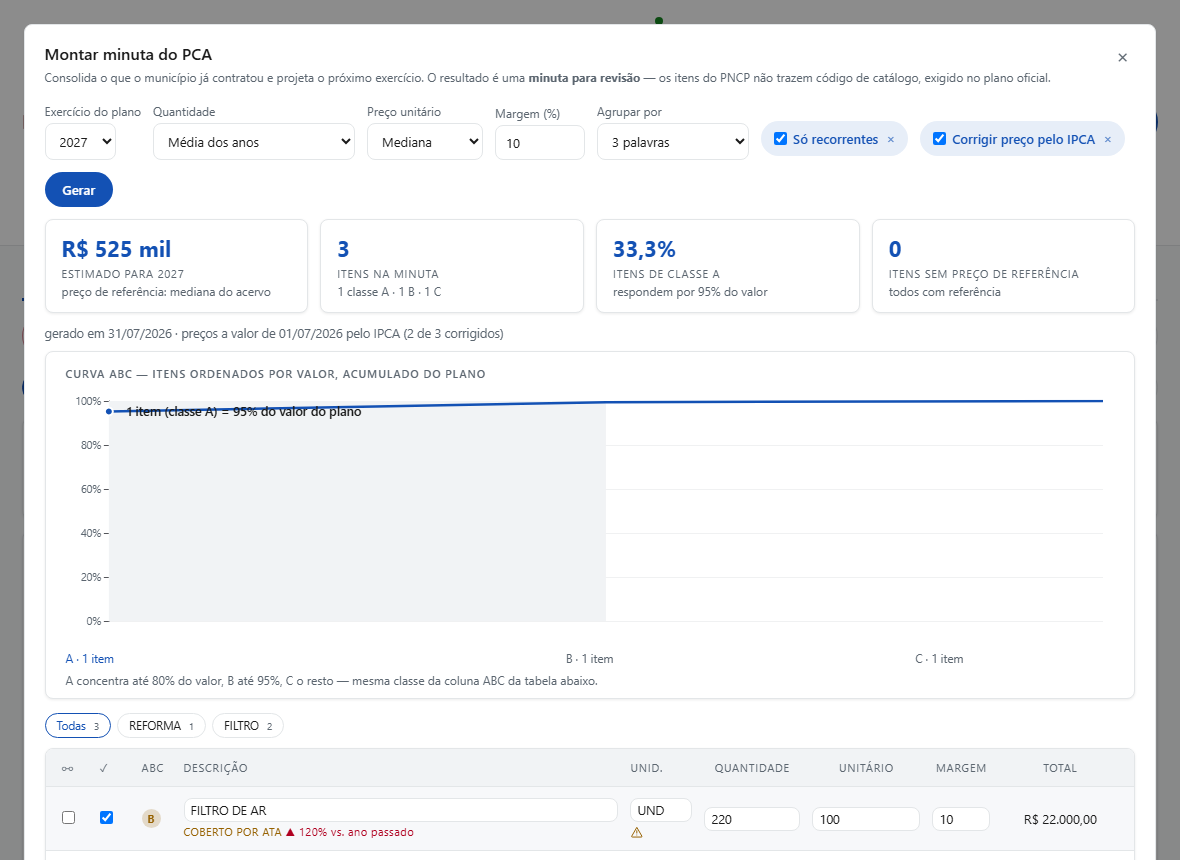
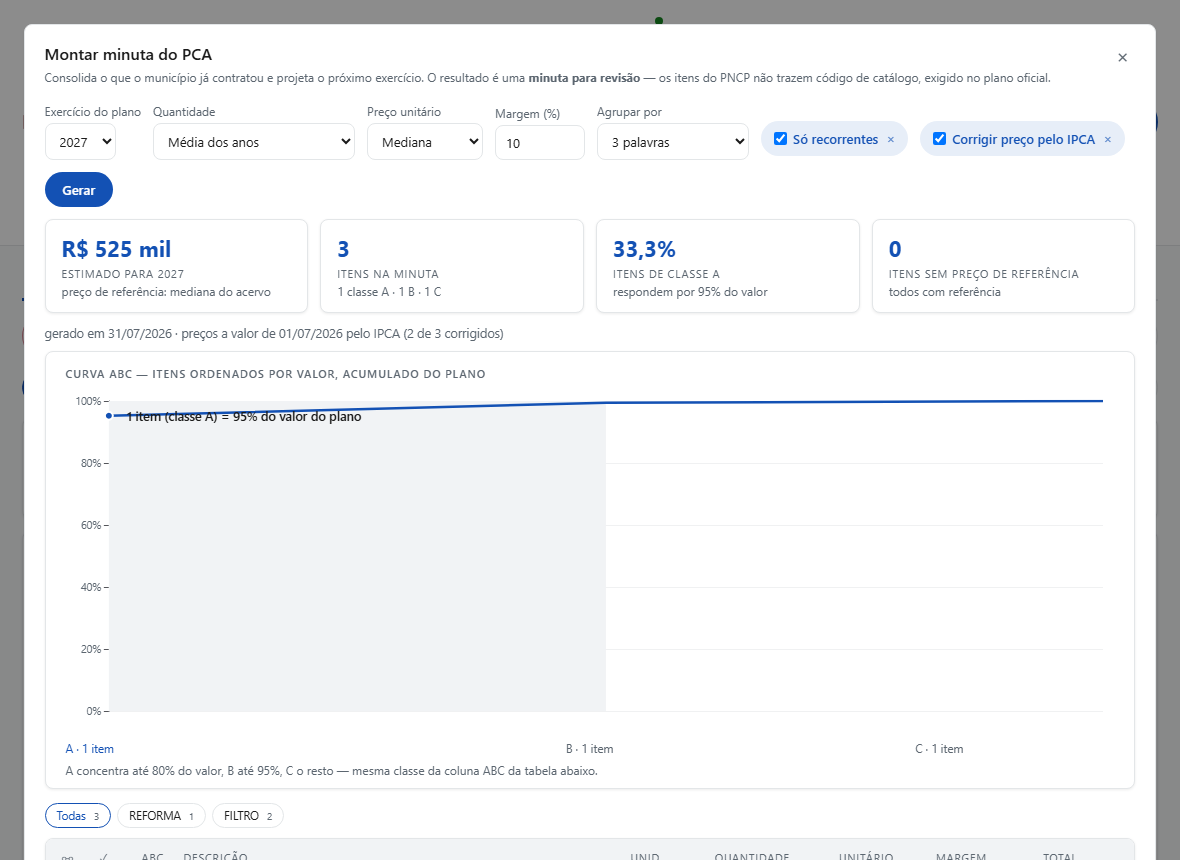
Altura mínima dos gráficos do Painel sobe pra 350px (v2.13.1)
Pedido do usuário: todo gráfico (largura total ou de altura variável —
barras, deságio, calor, funil) tem 350px de altura mínima agora, contra
os 260px/pisos menores de antes.

diff --git a/MANUAL.html b/MANUAL.html
@@ -2,11 +2,11 @@
 <html lang="pt-BR">
 <head>
 <meta charset="utf-8">
-<title>Manual Operacional — Licitarium Free v2.13.0</title>
+<title>Manual Operacional — Licitarium Free v2.13.1</title>
 <style>
   @page {
     size: A4; margin: 2cm 1.8cm;
-    @top-center { content: "Licitarium Free v2.13.0 — Manual Operacional"; font-size: 9pt; color: #6f5b3e; }
+    @top-center { content: "Licitarium Free v2.13.1 — Manual Operacional"; font-size: 9pt; color: #6f5b3e; }
     @bottom-right { content: "Página " counter(page) " de " counter(pages);
                     font-size: 9pt; color: #6f5b3e; }
   }
@@ -155,7 +155,7 @@
     <path d="M21.22 61.67Q21.16 61.67 21.12 61.65Q21.09 61.64 21.09 61.61Q21.09 61.58 21.13 61.56Q21.17 61.54 21.23 61.53Q21.35 61.5 21.42 61.41Q21.5 61.32 21.52 61.17Q21.57 60.82 21.61 60.47Q21.64 60.11 21.67 59.79Q21.7 59.47 21.71 59.22Q21.71 59.19 21.71 59.14Q21.71 59.1 21.71 59.06Q21.7 59.01 21.69 58.97Q21.67 58.93 21.62 58.89Q21.55 58.83 21.47 58.81Q21.4 58.78 21.3 58.76Q21.26 58.75 21.23 58.73Q21.2 58.7 21.2 58.67Q21.2 58.63 21.24 58.62Q21.28 58.61 21.34 58.61Q21.4 58.61 21.49 58.61Q21.59 58.62 21.71 58.63Q21.82 58.63 21.93 58.64Q22.03 58.64 22.1 58.64Q22.14 58.64 22.16 58.66Q22.19 58.69 22.2 58.72Q22.22 58.81 22.25 58.89Q22.27 58.98 22.31 59.07L23.02 60.84Q23.03 60.87 23.06 60.88Q23.09 60.88 23.11 60.85L23.93 59.08Q23.96 58.98 23.98 58.88Q24 58.78 24.02 58.71Q24.03 58.65 24.07 58.65H24.25Q24.41 58.64 24.59 58.63Q24.76 58.61 24.85 58.61Q24.89 58.61 24.92 58.62Q24.96 58.63 24.96 58.66Q24.96 58.7 24.93 58.71Q24.9 58.73 24.84 58.76Q24.79 58.77 24.73 58.8Q24.67 58.82 24.62 58.84Q24.55 58.88 24.51 58.93Q24.46 58.98 24.47 59.07Q24.47 59.4 24.48 59.67Q24.5 59.94 24.51 60.19Q24.52 60.43 24.54 60.68Q24.56 60.93 24.57 61.2Q24.58 61.34 24.67 61.41Q24.75 61.49 24.92 61.52Q24.98 61.54 25.02 61.56Q25.05 61.57 25.05 61.61Q25.05 61.64 25.02 61.65Q24.99 61.67 24.93 61.67Q24.82 61.67 24.72 61.66Q24.62 61.65 24.53 61.65Q24.43 61.64 24.33 61.64Q24.24 61.64 24.16 61.65Q24.08 61.65 23.99 61.66Q23.9 61.67 23.78 61.67Q23.73 61.67 23.7 61.65Q23.66 61.64 23.66 61.61Q23.66 61.58 23.7 61.55Q23.73 61.53 23.8 61.52Q23.95 61.5 24 61.43Q24.06 61.36 24.06 61.2Q24.05 60.88 24.04 60.61Q24.04 60.34 24.02 60.07Q24.01 59.8 24 59.51Q23.99 59.46 23.97 59.47Q23.95 59.47 23.93 59.51L22.93 61.66Q22.92 61.7 22.88 61.7Q22.84 61.69 22.83 61.66Q22.63 61.12 22.41 60.59Q22.19 60.07 21.95 59.5Q21.94 59.47 21.91 59.47Q21.89 59.47 21.88 59.51Q21.85 59.8 21.83 60.07Q21.8 60.34 21.79 60.61Q21.78 60.88 21.78 61.17Q21.78 61.3 21.86 61.39Q21.94 61.49 22.09 61.52Q22.16 61.54 22.2 61.55Q22.24 61.57 22.24 61.61Q22.24 61.64 22.2 61.65Q22.16 61.67 22.11 61.67Q21.99 61.67 21.92 61.66Q21.86 61.65 21.81 61.65Q21.75 61.65 21.66 61.65Q21.57 61.65 21.51 61.65Q21.44 61.66 21.37 61.66Q21.3 61.67 21.22 61.67ZM25.84 61.67Q25.78 61.67 25.75 61.65Q25.72 61.64 25.72 61.61Q25.72 61.58 25.75 61.56Q25.79 61.54 25.86 61.53Q25.97 61.5 26.05 61.41Q26.13 61.32 26.15 61.17Q26.19 60.82 26.23 60.47Q26.27 60.11 26.3 59.79Q26.32 59.47 26.33 59.22Q26.34 59.19 26.34 59.14Q26.34 59.1 26.33 59.06Q26.33 59.01 26.31 58.97Q26.3 58.93 26.25 58.89Q26.17 58.83 26.1 58.81Q26.03 58.78 25.93 58.76Q25.88 58.75 25.85 58.73Q25.82 58.7 25.82 58.67Q25.82 58.63 25.86 58.62Q25.91 58.61 25.97 58.61Q26.02 58.61 26.12 58.61Q26.22 58.62 26.33 58.63Q26.45 58.63 26.56 58.64Q26.66 58.64 26.73 58.64Q26.76 58.64 26.79 58.66Q26.82 58.69 26.82 58.72Q26.85 58.81 26.88 58.89Q26.9 58.98 26.93 59.07L27.65 60.84Q27.66 60.87 27.69 60.88Q27.72 60.88 27.73 60.85L28.56 59.08Q28.58 58.98 28.61 58.88Q28.63 58.78 28.64 58.71Q28.66 58.65 28.7 58.65H28.88Q29.04 58.64 29.21 58.63Q29.39 58.61 29.48 58.61Q29.51 58.61 29.55 58.62Q29.59 58.63 29.59 58.66Q29.59 58.7 29.56 58.71Q29.53 58.73 29.47 58.76Q29.42 58.77 29.36 58.8Q29.3 58.82 29.25 58.84Q29.17 58.88 29.13 58.93Q29.09 58.98 29.09 59.07Q29.1 59.4 29.11 59.67Q29.12 59.94 29.14 60.19Q29.15 60.43 29.17 60.68Q29.18 60.93 29.2 61.2Q29.21 61.34 29.3 61.41Q29.38 61.49 29.54 61.52Q29.61 61.54 29.65 61.56Q29.68 61.57 29.68 61.61Q29.68 61.64 29.65 61.65Q29.61 61.67 29.56 61.67Q29.44 61.67 29.34 61.66Q29.25 61.65 29.15 61.65Q29.06 61.64 28.96 61.64Q28.87 61.64 28.79 61.65Q28.71 61.65 28.62 61.66Q28.53 61.67 28.41 61.67Q28.36 61.67 28.32 61.65Q28.29 61.64 28.29 61.61Q28.29 61.58 28.32 61.55Q28.36 61.53 28.43 61.52Q28.57 61.5 28.63 61.43Q28.68 61.36 28.68 61.2Q28.68 60.88 28.67 60.61Q28.66 60.34 28.65 60.07Q28.64 59.8 28.63 59.51Q28.62 59.46 28.6 59.47Q28.58 59.47 28.56 59.51L27.56 61.66Q27.55 61.7 27.51 61.7Q27.47 61.69 27.46 61.66Q27.26 61.12 27.04 60.59Q26.82 60.07 26.58 59.5Q26.57 59.47 26.54 59.47Q26.52 59.47 26.51 59.51Q26.48 59.8 26.45 60.07Q26.43 60.34 26.42 60.61Q26.41 60.88 26.41 61.17Q26.41 61.3 26.49 61.39Q26.57 61.49 26.72 61.52Q26.79 61.54 26.83 61.55Q26.87 61.57 26.87 61.61Q26.87 61.64 26.83 61.65Q26.79 61.67 26.74 61.67Q26.61 61.67 26.55 61.66Q26.48 61.65 26.43 61.65Q26.38 61.65 26.29 61.65Q26.2 61.65 26.13 61.65Q26.07 61.66 26 61.66Q25.93 61.67 25.84 61.67ZM30.37 61.67Q30.31 61.67 30.27 61.66Q30.23 61.65 30.23 61.61Q30.23 61.58 30.27 61.56Q30.31 61.54 30.37 61.51Q30.46 61.49 30.57 61.44Q30.67 61.38 30.79 61.29Q30.9 61.2 31 61.07L31.58 60.35Q31.63 60.28 31.64 60.21Q31.66 60.14 31.59 60.05L30.96 59.16Q30.86 59.03 30.79 58.95Q30.71 58.87 30.63 58.83Q30.56 58.8 30.48 58.77Q30.41 58.75 30.37 58.73Q30.34 58.71 30.34 58.67Q30.34 58.64 30.37 58.63Q30.41 58.62 30.46 58.62Q30.61 58.62 30.81 58.63Q31.01 58.64 31.2 58.64Q31.34 58.64 31.47 58.63Q31.61 58.62 31.7 58.62Q31.75 58.62 31.79 58.64Q31.83 58.65 31.83 58.68Q31.83 58.72 31.79 58.74Q31.75 58.76 31.69 58.78Q31.56 58.81 31.5 58.84Q31.44 58.87 31.44 58.93Q31.44 59 31.56 59.18L31.99 59.77Q32.04 59.84 32.07 59.84Q32.1 59.84 32.14 59.78L32.59 59.18Q32.65 59.1 32.68 59.04Q32.71 58.98 32.71 58.93Q32.71 58.88 32.66 58.84Q32.61 58.8 32.5 58.78Q32.46 58.77 32.4 58.74Q32.35 58.72 32.35 58.68Q32.35 58.65 32.39 58.64Q32.43 58.63 32.49 58.63Q32.56 58.63 32.62 58.63Q32.68 58.63 32.74 58.63Q32.81 58.64 32.88 58.64Q33.02 58.64 33.15 58.62Q33.28 58.61 33.39 58.61Q33.45 58.61 33.49 58.62Q33.53 58.63 33.53 58.67Q33.53 58.7 33.49 58.72Q33.45 58.74 33.38 58.76Q33.26 58.79 33.12 58.93Q32.97 59.06 32.85 59.21L32.28 59.9Q32.22 59.97 32.21 60.01Q32.2 60.04 32.23 60.1L32.97 61.16Q33.06 61.29 33.18 61.39Q33.29 61.48 33.41 61.51Q33.48 61.53 33.52 61.55Q33.57 61.58 33.57 61.61Q33.57 61.64 33.53 61.66Q33.49 61.67 33.44 61.67Q33.33 61.67 33.21 61.66Q33.08 61.66 32.94 61.65Q32.81 61.64 32.69 61.64Q32.55 61.64 32.42 61.65Q32.29 61.65 32.19 61.65Q32.13 61.65 32.09 61.64Q32.05 61.62 32.05 61.59Q32.05 61.56 32.1 61.53Q32.15 61.51 32.2 61.5Q32.28 61.48 32.35 61.43Q32.42 61.38 32.42 61.29Q32.42 61.26 32.41 61.23Q32.4 61.19 32.37 61.16L31.89 60.45Q31.84 60.39 31.81 60.38Q31.78 60.38 31.75 60.43L31.19 61.17Q31.16 61.22 31.14 61.26Q31.13 61.3 31.13 61.33Q31.14 61.39 31.19 61.44Q31.25 61.49 31.34 61.51Q31.41 61.52 31.45 61.54Q31.49 61.57 31.49 61.6Q31.49 61.63 31.45 61.64Q31.42 61.66 31.36 61.66Q31.27 61.66 31.15 61.65Q31.03 61.65 30.92 61.65Q30.77 61.65 30.63 61.66Q30.49 61.67 30.37 61.67ZM34.14 61.67Q34.08 61.67 34.04 61.66Q34 61.65 34 61.61Q34 61.58 34.04 61.56Q34.08 61.54 34.14 61.51Q34.23 61.49 34.34 61.44Q34.44 61.38 34.56 61.29Q34.67 61.2 34.77 61.07L35.35 60.35Q35.4 60.28 35.41 60.21Q35.43 60.14 35.36 60.05L34.73 59.16Q34.63 59.03 34.56 58.95Q34.48 58.87 34.4 58.83Q34.33 58.8 34.25 58.77Q34.18 58.75 34.14 58.73Q34.11 58.71 34.11 58.67Q34.11 58.64 34.14 58.63Q34.18 58.62 34.23 58.62Q34.38 58.62 34.58 58.63Q34.78 58.64 34.97 58.64Q35.11 58.64 35.24 58.63Q35.38 58.62 35.47 58.62Q35.52 58.62 35.56 58.64Q35.6 58.65 35.6 58.68Q35.6 58.72 35.56 58.74Q35.52 58.76 35.46 58.78Q35.33 58.81 35.27 58.84Q35.21 58.87 35.21 58.93Q35.21 59 35.33 59.18L35.76 59.77Q35.81 59.84 35.84 59.84Q35.87 59.84 35.91 59.78L36.36 59.18Q36.42 59.1 36.45 59.04Q36.48 58.98 36.48 58.93Q36.48 58.88 36.43 58.84Q36.38 58.8 36.27 58.78Q36.23 58.77 36.18 58.74Q36.12 58.72 36.12 58.68Q36.12 58.65 36.16 58.64Q36.2 58.63 36.26 58.63Q36.33 58.63 36.39 58.63Q36.45 58.63 36.51 58.63Q36.58 58.64 36.65 58.64Q36.79 58.64 36.92 58.62Q37.05 58.61 37.16 58.61Q37.22 58.61 37.26 58.62Q37.3 58.63 37.3 58.67Q37.3 58.7 37.26 58.72Q37.22 58.74 37.15 58.76Q37.03 58.79 36.89 58.93Q36.74 59.06 36.62 59.21L36.05 59.9Q35.99 59.97 35.98 60.01Q35.97 60.04 36 60.1L36.74 61.16Q36.83 61.29 36.95 61.39Q37.06 61.48 37.18 61.51Q37.25 61.53 37.29 61.55Q37.34 61.58 37.34 61.61Q37.34 61.64 37.3 61.66Q37.26 61.67 37.21 61.67Q37.1 61.67 36.98 61.66Q36.85 61.66 36.71 61.65Q36.58 61.64 36.46 61.64Q36.32 61.64 36.19 61.65Q36.06 61.65 35.96 61.65Q35.9 61.65 35.86 61.64Q35.82 61.62 35.82 61.59Q35.82 61.56 35.87 61.53Q35.92 61.51 35.97 61.5Q36.05 61.48 36.12 61.43Q36.2 61.38 36.2 61.29Q36.2 61.26 36.18 61.23Q36.17 61.19 36.14 61.16L35.66 60.45Q35.61 60.39 35.58 60.38Q35.55 60.38 35.52 60.43L34.96 61.17Q34.93 61.22 34.91 61.26Q34.9 61.3 34.9 61.33Q34.91 61.39 34.96 61.44Q35.02 61.49 35.11 61.51Q35.18 61.52 35.22 61.54Q35.26 61.57 35.26 61.6Q35.26 61.63 35.22 61.64Q35.19 61.66 35.13 61.66Q35.04 61.66 34.92 61.65Q34.8 61.65 34.69 61.65Q34.54 61.65 34.4 61.66Q34.26 61.67 34.14 61.67ZM39.32 61.71Q39.27 61.71 39.25 61.66Q39.23 61.61 39.19 61.51Q39.16 61.41 39.13 61.34L38.26 59.11Q38.21 58.99 38.14 58.9Q38.06 58.81 37.93 58.78Q37.87 58.76 37.83 58.74Q37.79 58.71 37.79 58.68Q37.79 58.65 37.83 58.63Q37.86 58.62 37.92 58.62Q38 58.62 38.1 58.63Q38.2 58.63 38.31 58.63Q38.42 58.64 38.52 58.64Q38.61 58.64 38.72 58.63Q38.82 58.63 38.92 58.63Q39.02 58.62 39.08 58.62Q39.13 58.62 39.17 58.64Q39.21 58.65 39.21 58.68Q39.21 58.72 39.17 58.74Q39.13 58.77 39.07 58.78Q38.93 58.79 38.85 58.84Q38.78 58.88 38.78 58.96Q38.78 59.02 38.79 59.07Q38.81 59.12 38.82 59.15L39.46 60.88Q39.47 60.9 39.48 60.91Q39.5 60.91 39.51 60.87L40.11 59.3Q40.2 59.05 40.13 58.93Q40.06 58.8 39.89 58.78Q39.83 58.77 39.79 58.74Q39.74 58.72 39.74 58.68Q39.74 58.65 39.78 58.64Q39.82 58.63 39.88 58.63Q39.95 58.63 40.02 58.63Q40.09 58.63 40.17 58.63Q40.24 58.64 40.33 58.64Q40.47 58.64 40.61 58.63Q40.75 58.62 40.85 58.62Q40.91 58.62 40.95 58.63Q40.99 58.64 40.99 58.68Q40.99 58.71 40.95 58.73Q40.91 58.75 40.84 58.77Q40.68 58.81 40.58 58.92Q40.47 59.04 40.41 59.19L39.59 61.15Q39.56 61.23 39.52 61.32Q39.49 61.41 39.45 61.5Q39.42 61.59 39.38 61.66Q39.38 61.69 39.36 61.7Q39.34 61.71 39.32 61.71ZM41.59 61.67Q41.54 61.67 41.51 61.65Q41.47 61.64 41.47 61.61Q41.47 61.55 41.61 61.52Q41.78 61.49 41.87 61.42Q41.95 61.35 41.95 61.19V59.1Q41.95 58.94 41.89 58.87Q41.82 58.81 41.64 58.77Q41.51 58.75 41.51 58.68Q41.51 58.65 41.54 58.63Q41.58 58.62 41.63 58.62Q41.75 58.62 41.84 58.63Q41.93 58.63 42.02 58.63Q42.11 58.64 42.21 58.64Q42.31 58.64 42.4 58.63Q42.48 58.63 42.57 58.63Q42.66 58.62 42.78 58.62Q42.83 58.62 42.86 58.63Q42.9 58.65 42.9 58.68Q42.9 58.71 42.86 58.74Q42.83 58.76 42.76 58.77Q42.59 58.81 42.51 58.88Q42.44 58.94 42.44 59.1V61.19Q42.44 61.35 42.53 61.42Q42.61 61.48 42.79 61.52Q42.86 61.54 42.89 61.56Q42.92 61.57 42.92 61.61Q42.92 61.64 42.89 61.65Q42.86 61.67 42.81 61.67Q42.69 61.67 42.59 61.66Q42.5 61.65 42.41 61.65Q42.32 61.64 42.21 61.64Q42.1 61.64 42.01 61.65Q41.91 61.65 41.81 61.66Q41.71 61.67 41.59 61.67Z" fill="var(--text)" opacity=".85"/>
   </svg>
   <h1 class="mark">LICITARI<b>V</b>M</h1>
-  <div class="subtitulo">MANUAL DO USUÁRIO · VERSÃO 2.13.0</div>
+  <div class="subtitulo">MANUAL DO USUÁRIO · VERSÃO 2.13.1</div>
 </header>
 
 <h2>1. O que é o Licitarium</h2>

diff --git a/ui/painel.js b/ui/painel.js
@@ -214,14 +214,9 @@ function _iniciarEchart(el) {
 }
 
 // ── colunas pareadas: estimado (claro) × homologado (cheio) ────────────────
-// 260px é a altura padrão de todo gráfico de largura total do app (linha,
-// área, curva) — média das 5 alturas que esses gráficos já usavam (196 a
-// 230px) arredondada pra cima. Motivo do arredondamento pra cima, não só a
-// média: 2 delas (aqui e grafConcentracao) ficaram largura total só depois
-// da correção de layout de 2026-09-12 — antes dividiam a linha com outro
-// gráfico, então a altura tinha sido calibrada pra card ~metade da largura.
-// Card 2x mais largo com a MESMA altura fica achatado; aumentar era a
-// correção certa, não só "manter o que já tinha".
+// 350px é a altura mínima padrão de todo gráfico do app (pedido do
+// usuário, 2026-09-12) — antes era 260px (média das alturas herdadas de
+// quando alguns desses gráficos dividiam a linha com outro, 2 colunas).
 function grafMeses(el, meses, ano, larg = 660) {
   // Mês sem contratação é informação: filtrá-lo comprimia o eixo e escondia
   // o buraco — no acervo do piloto, março sumia entre fevereiro e abril.
@@ -234,7 +229,7 @@ function grafMeses(el, meses, ano, larg = 660) {
   const hoje = new Date();
   const mesCorrente = ano === hoje.getFullYear() ? hoje.getMonth() + 1 : 0;
   const dados = meses.slice(0, Math.max(ultimo + 1, mesCorrente));
-  el.innerHTML = `<div class="graf-echart" style="height:260px"></div>
+  el.innerHTML = `<div class="graf-echart" style="height:350px"></div>
     <div class="leg"><span><i style="background:var(--s1);opacity:.32"></i>Estimado</span>
     <span><i style="background:var(--s1)"></i>Homologado</span>
     <span class="nota" style="margin:0">valor rotulado é o homologado do mês</span></div>`;
@@ -290,7 +285,7 @@ function grafBarras(el, itens, {valor, rotulo, sub, cor = "var(--s1)", exato = f
     el.innerHTML = `<div class="vazio">Sem dados no exercício.</div>`;
     return;
   }
-  el.style.height = Math.max(120, itens.length * 36 + 20) + "px";
+  el.style.height = Math.max(350, itens.length * 36 + 20) + "px";
   const chart = _iniciarEchart(el);
   // A barra É o dado: rótulo e valor são legenda em volta dela. Reservar a
   // margem direita pela medida certa (correto) sem piso nenhum encolheu a
@@ -364,7 +359,7 @@ function grafSeries(el, series, anoAtual) {
   }
   const ultimoMesAtual = Math.min(new Date().getMonth(), 11);
   el.innerHTML = `<div class="graf-par" style="position:relative">
-    <div class="graf-echart" style="height:260px"></div>
+    <div class="graf-echart" style="height:350px"></div>
     <svg data-overlay aria-hidden="true"
       style="position:absolute;inset:0"></svg></div>`;
   const alvoChart = el.querySelector(".graf-echart");
@@ -486,7 +481,7 @@ function grafDesagio(el, desagios, larg = 500) {
   const menor = Math.min(0, ...pcts), maior = Math.max(0, ...pcts);
   const diverge = menor < 0;
   el.innerHTML = `<div class="graf-echart" style="height:${
-    Math.max(120, desagios.length * 34 + 10)}px"></div>` + (diverge
+    Math.max(350, desagios.length * 34 + 10)}px"></div>` + (diverge
     ? `<div class="leg" style="justify-content:space-between">
          <span>acima do estimado</span><span>economia</span></div>` : "");
   const chart = _iniciarEchart(el.querySelector(".graf-echart"));
@@ -559,11 +554,9 @@ function grafConcentracao(el, curva, total) {
   // destacar o último ponto seria dizer "todos os fornecedores = 100%", que
   // não informa nada — e o rótulo cairia em cima do fim da curva
   const dez = Math.min(9, Math.max(0, curva.length - 2));
-  // 260px: mesma altura padrão de largura total, ver comentário em
-  // grafMeses — este também só virou largura total na correção de layout
-  // de 2026-09-12 (antes dividia linha com "Deságio por modalidade")
+  // 350px: mesma altura mínima padrão, ver comentário em grafMeses
   el.innerHTML = `<div class="graf-par" style="position:relative">
-    <div class="graf-echart" style="height:260px"></div>
+    <div class="graf-echart" style="height:350px"></div>
     <svg data-overlay aria-hidden="true"
       style="position:absolute;inset:0"></svg></div>`;
   const alvoChart = el.querySelector(".graf-echart");
@@ -667,7 +660,7 @@ function grafCurvaABC(el, itens, larg = 660) {
   const nC = validos.length - nA - nB;
   const fimA = Math.max(0, nA - 1), fimB = Math.max(fimA, nA + nB - 1);
 
-  el.innerHTML = `<div class="graf-echart" style="height:260px"></div>
+  el.innerHTML = `<div class="graf-echart" style="height:350px"></div>
     <div class="leg" style="display:grid;grid-template-columns:${
       (((fimA + 1) / validos.length) * 100).toFixed(1)}% ${
       ((nB / validos.length) * 100).toFixed(1)}% 1fr;gap:0;margin-top:2px">
@@ -727,7 +720,7 @@ function grafValorPorAno(el, porAno, anoAtual) {
     el.innerHTML = `<div class="vazio">Sem contratos em anos anteriores.</div>`;
     return;
   }
-  el.innerHTML = `<div class="graf-echart" style="height:260px"></div>`;
+  el.innerHTML = `<div class="graf-echart" style="height:350px"></div>`;
   const alvo = el.querySelector(".graf-echart");
   const chart = _iniciarEchart(alvo);
   chart.setOption({
@@ -780,7 +773,7 @@ function grafCalor(el, calor, meses) {
   // legenda alinhada à direita: em cima ela disputava espaço com a última
   // coluna de meses e saía cortada
   el.innerHTML = `<div class="graf-echart" style="height:${
-    linhas.length * 34 + 50}px"></div>
+    Math.max(350, linhas.length * 34 + 50)}px"></div>
     <div class="leg" style="justify-content:flex-end;align-items:center;gap:5px">
       <span>menos</span>${[1, 2, 3, 4, 5].map(n =>
         `<i style="width:22px;height:13px;border-radius:2px;background:var(--seq${n})"></i>`
@@ -882,7 +875,7 @@ function grafFunil(el, f, larg = 500) {
                   ["Com resultado", f.com_resultado]];
   const max = etapas[0][1] || 1;
   const pctDe = v => max ? pct(v / max * 100, 0) : "–";
-  el.style.height = (etapas.length * 40 + 10) + "px";
+  el.style.height = Math.max(350, etapas.length * 40 + 10) + "px";
   const chart = _iniciarEchart(el);
   chart.setOption({
     animation: false,

diff --git a/tests-e2e/painel.spec.js b/tests-e2e/painel.spec.js
@@ -126,6 +126,10 @@ test("o corte vertical lê todos os anos no mês apontado", async ({ page }) => 
   await expect(guia).toHaveAttribute("opacity", "0");
   await expect(padrao).toHaveAttribute("opacity", "1");
 
+  // o cartão fica abaixo da dobra (viewport padrão 720px, altura mínima
+  // de gráfico subiu pra 350px em 2026-09-12); sem isso o alvo do
+  // mouse.move cai fora da tela e o evento não chega no SVG
+  await hit.scrollIntoViewIfNeeded();
   const box = await hit.boundingBox();
   await page.mouse.move(box.x + box.width * 0.3, box.y + box.height / 2);
 
@@ -150,6 +154,7 @@ test("mudar o mês apontado muda os valores mostrados", async ({ page }) => {
   await page.locator('.subabas button[data-vista="analise"]').click();
   const hit = page.locator(
     '#p-analise .card:has([data-graf="series"]) svg [data-cross-hit]');
+  await hit.scrollIntoViewIfNeeded();
   const box = await hit.boundingBox();
   const tt = page.locator(".graf-tt");
 

diff --git a/licitarium.py b/licitarium.py
@@ -28,7 +28,7 @@ import pca_builder
 import pncp
 import relatorios
 
-VERSAO = "2.13.0"
+VERSAO = "2.13.1"
 # dentro do exe onefile os arquivos ficam na pasta temporária do bundle;
 # _MEIPASS é o caminho oficial para chegar até eles
 DIR_APP = Path(getattr(sys, "_MEIPASS", Path(__file__).resolve().parent))

diff --git a/CHANGELOG.md b/CHANGELOG.md
@@ -1,5 +1,18 @@
 # Changelog
 
+## 2.13.1 — 2026-09-12
+
+**Correção — altura mínima dos gráficos sobe pra 350px**
+
+- Pedido do usuário: todo gráfico do Painel (largura total ou de altura
+  variável por linha/etapa — barras, deságio, mapa de calor, funil) tem
+  agora 350px de altura MÍNIMA, contra os 260px/pisos menores de antes.
+- 2 testes (`o corte vertical lê...`/`mudar o mês apontado...`) tiveram
+  que rolar o cartão até a tela antes do hover — o cartão passou a
+  ficar abaixo da dobra do viewport padrão de teste (720px) com a
+  altura maior; mesmo ajuste que o teste da Concentração já tinha.
+- 310 testes Python + 188 Playwright verdes.
+
 ## 2.13.0 — 2026-09-12
 
 **Adiciona — ficha rica estendida a Contratos e Atas**
